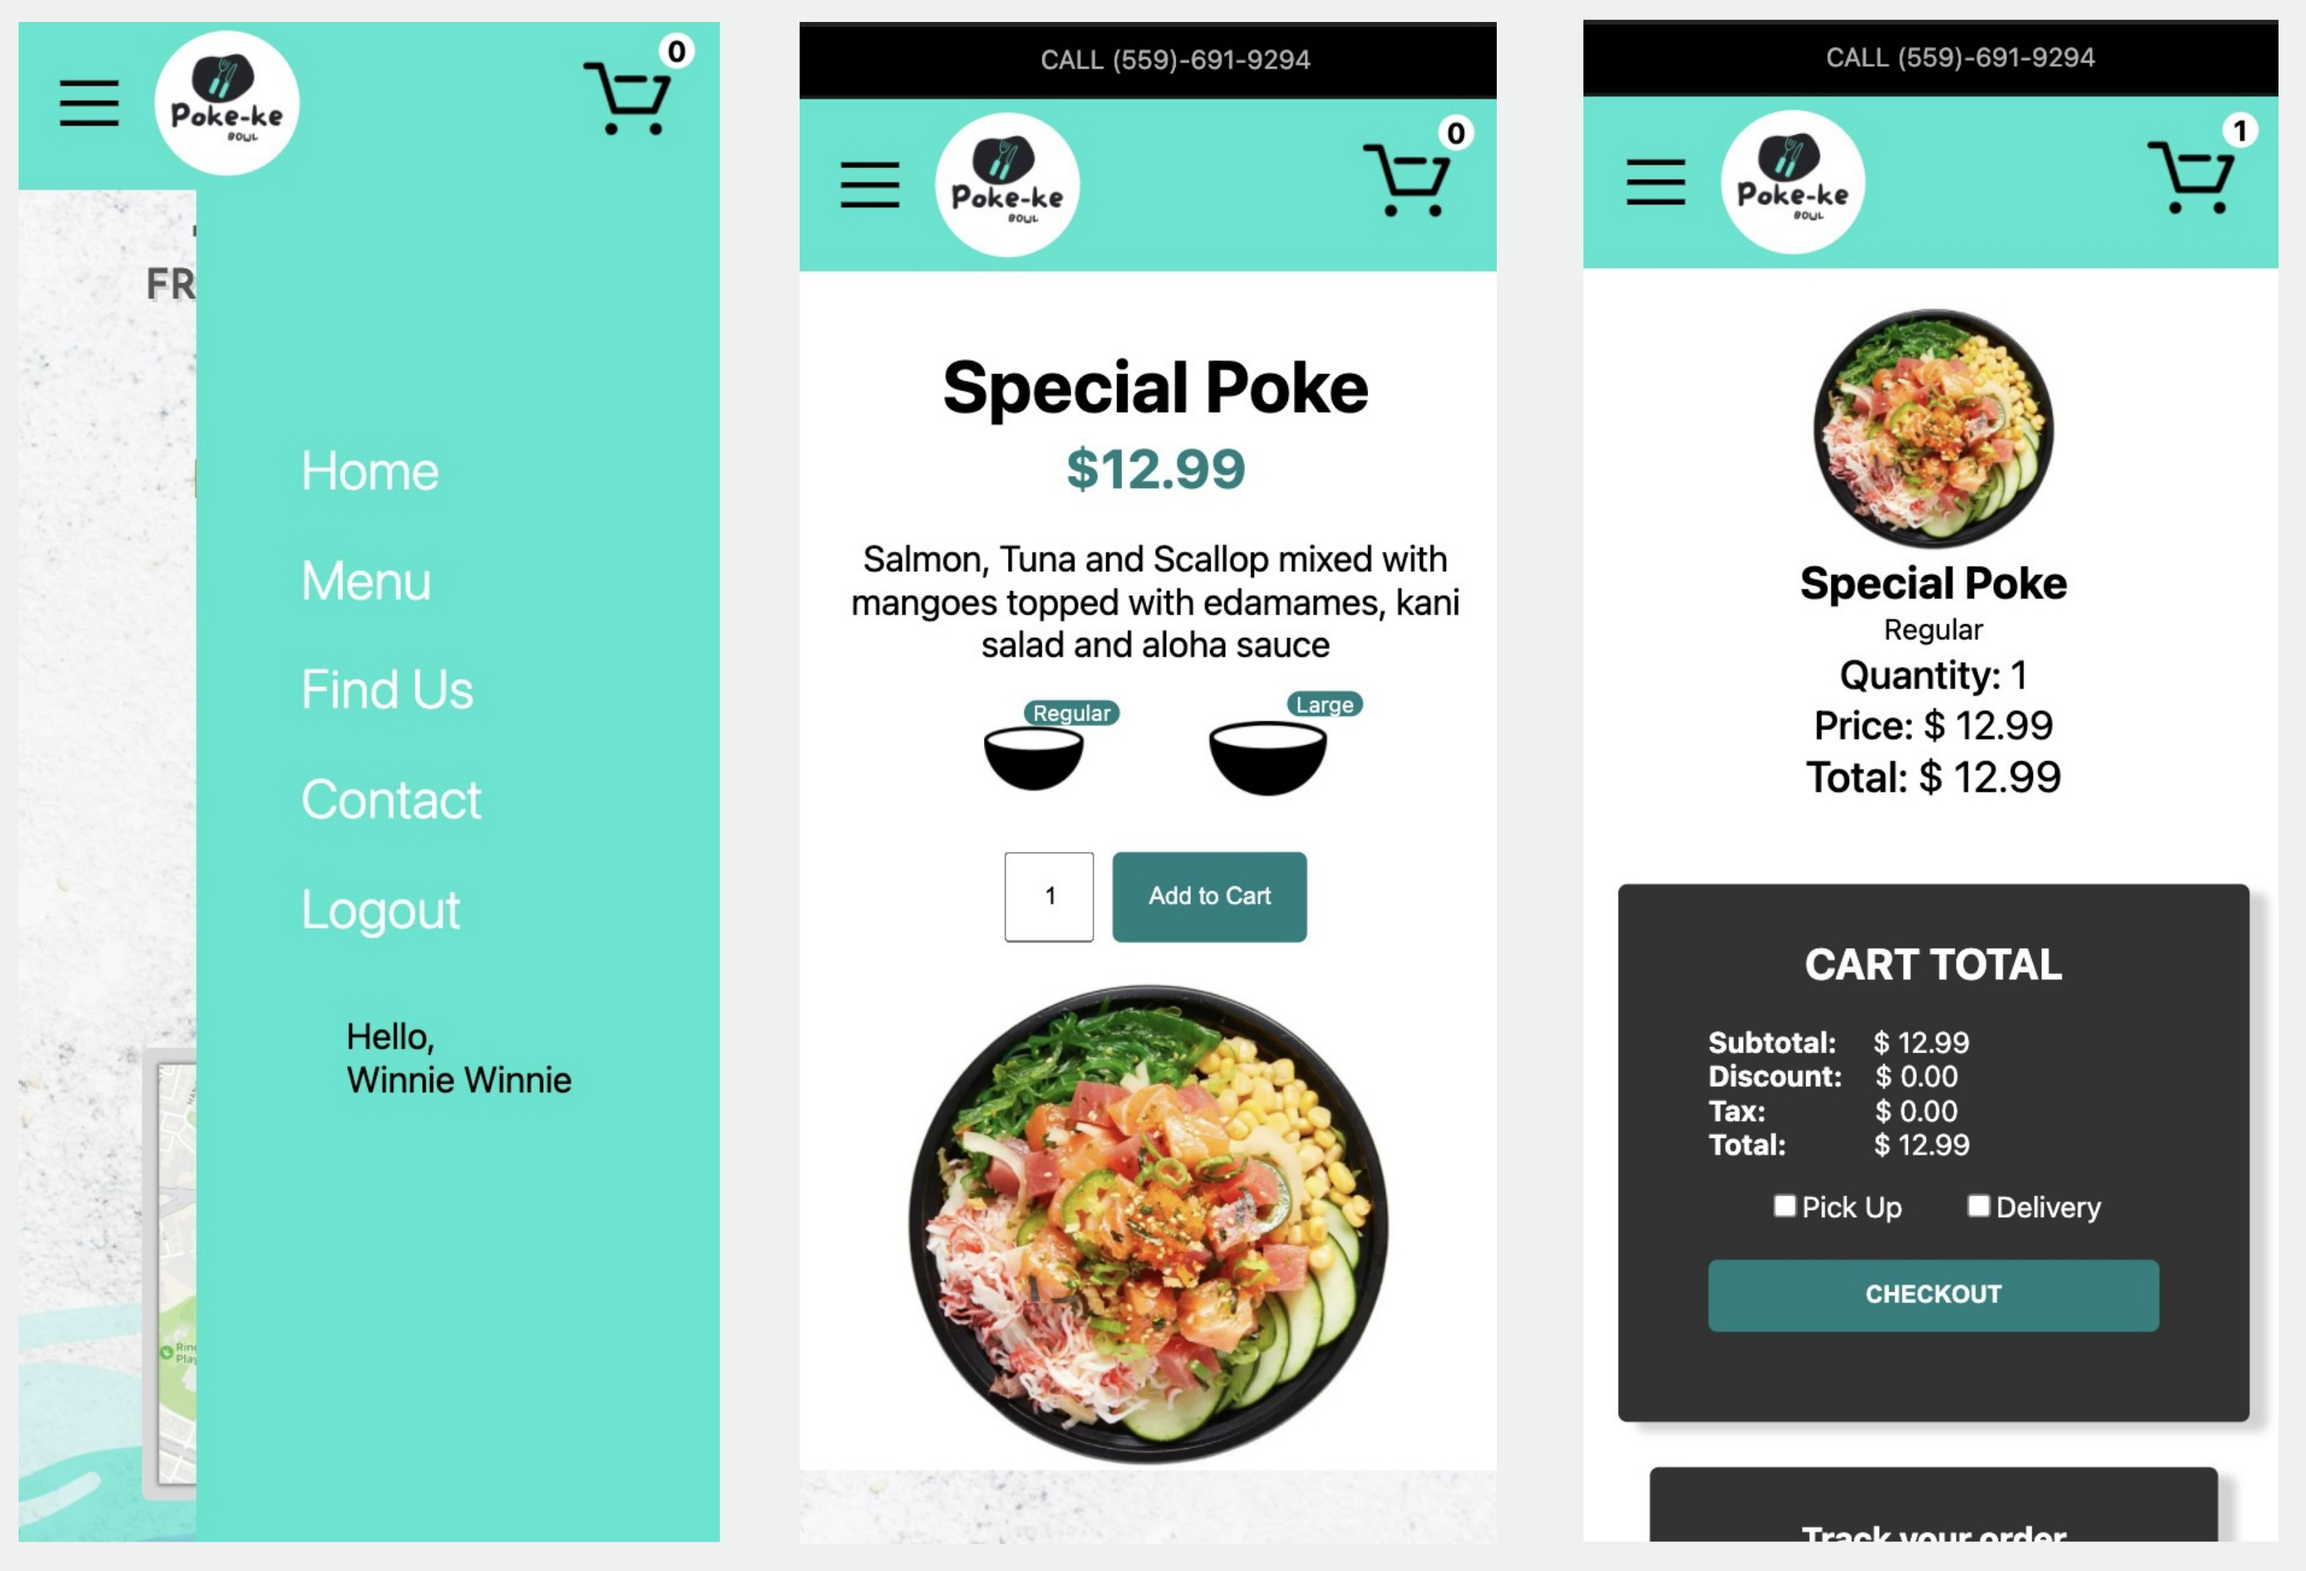
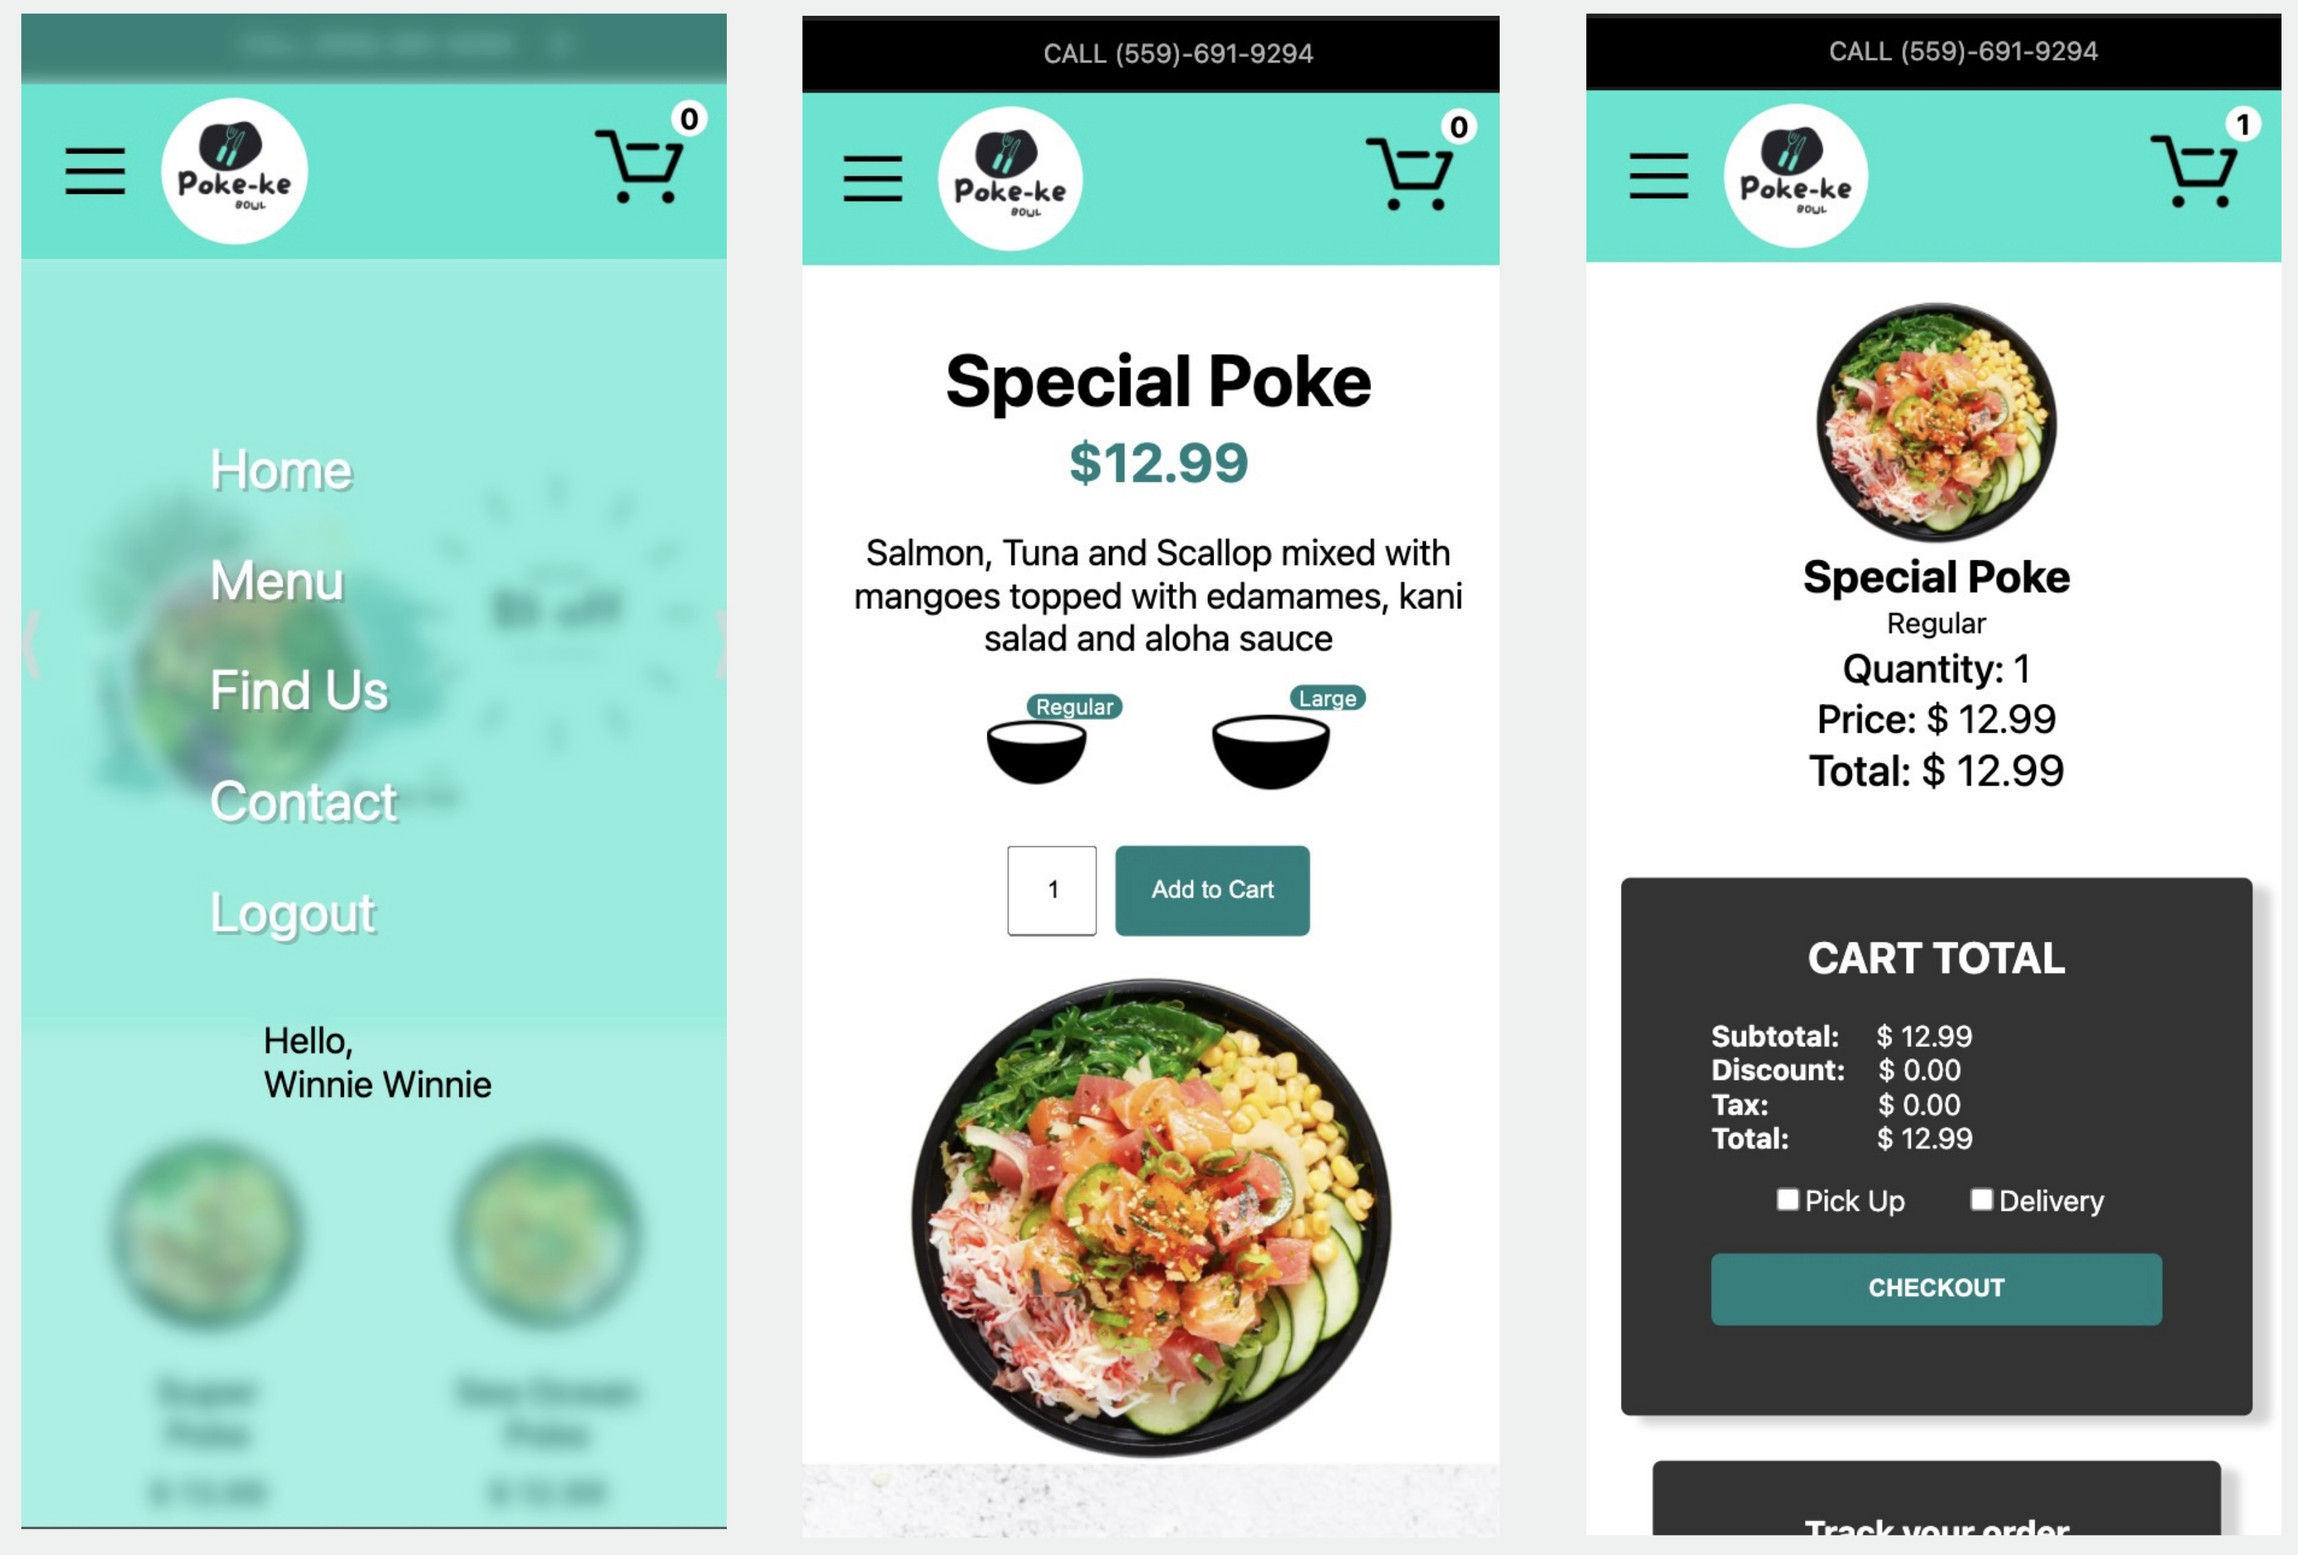
update sidebar menu

diff --git a/component/SideBar.js b/component/SideBar.js
@@ -16,25 +16,25 @@ const SideBar = ({sideOpen, setSideOpen}) => {
         <div className={`${styles.menu} ${styles.active}`}>
              <ul className={styles.list}>
           <Link href='/' passHref >
-          <li className={styles.listItem}>Home</li>
+          <li className={styles.listItem} onClick={()=>setSideOpen(!sideOpen)}>Home</li>
           </Link>
           <Link href='/#menu' passHref>
-          <li className={styles.listItem}>Menu</li>
+          <li className={styles.listItem} onClick={()=>setSideOpen(!sideOpen)}>Menu</li>
           </Link>
           {/* <li className={styles.listItem}>Pick Poke</li> */}
           <Link href='#contact' passHref>
-          <li className={styles.listItem}>Find Us</li>
+          <li className={styles.listItem} onClick={()=>setSideOpen(!sideOpen)}>Find Us</li>
           </Link>
           <Link href='#contact' passHref>
-          <li className={styles.listItem}>Contact</li>
+          <li className={styles.listItem} onClick={()=>setSideOpen(!sideOpen)}>Contact</li>
           </Link>
           { !user ?
             <Link href='/api/auth/login' passHref>
-            <li className={styles.listItem}>Login</li>
+            <li className={styles.listItem} onClick={()=>setSideOpen(!sideOpen)}>Login</li>
             </Link> 
             :
             <Link href='/api/auth/logout' passHref >
-            <li className={styles.listItem}>Logout</li>
+            <li className={styles.listItem} onClick={()=>setSideOpen(!sideOpen)}>Logout</li>
             </Link>
           }      
             </ul>
@@ -43,7 +43,7 @@ const SideBar = ({sideOpen, setSideOpen}) => {
           { (user && admin) && 
             <ul  className={styles.login}>
               <li className={styles.username}>Hello,</li>
-              <li className={styles.username}>Admin {user.name}</li> 
+              <li className={styles.username} onClick={()=>setSideOpen(!sideOpen)}>Admin {user.name}</li> 
             </ul>  
           }
            </div>
@@ -53,7 +53,7 @@ const SideBar = ({sideOpen, setSideOpen}) => {
           { (user && !admin) &&
             <ul  className={styles.login}>
                 <li className={styles.username}>Hello,</li>
-                <li className={styles.username}>{user.name}</li>
+                <li className={styles.username} onClick={()=>setSideOpen(!sideOpen)}>{user.name}</li>
             </ul> 
           }
            </div>

diff --git a/styles/SideBar.module.css b/styles/SideBar.module.css
@@ -51,7 +51,7 @@
 @media screen and (max-width:820px) {
     .menu {
         width: 100%;
-        background-color: #1be6cf70;
+        background-color: #1be6cf90;
         backdrop-filter: blur(5px);
     }
 

diff --git a/README.md b/README.md
@@ -16,7 +16,7 @@ Poke-ke Bowl is a web restaurant with capabilities of checkout and delivery opti
 * Create login account or using social media login and authentication through Auth0.
 * Using MongoDB to store database.
 
-* Stat with the Home page. From this page we offer a slider that provides the promotions of the restaurant and the list of Poke menu.
+* Start with the Home page. From this page there is a slider that provides promotions of the restaurant and list of Poke menu.
 
 ![home](public/img/me1.png)
 
@@ -32,13 +32,13 @@ Poke-ke Bowl is a web restaurant with capabilities of checkout and delivery opti
 
 ![pay](public/img/me5.jpeg)
 
-* After checkout user will be direct to an order page. From this page user can track the status of their order. The tracker order id is also available in cart checkout page.
+* After checkout user will be direct to an order page. From this page user are able to track the status of their order. The order id tracker is also available in cart checkout page.
 
 ![order](public/img/me6.jpeg)
 
 ![order](public/img/me7.jpeg)
 
-* User can create their account to view their order history by sign up from Auth0 login page, or social media account in this case using Google and Facebook.
+* User can create their account to view their order's history by sign up with Auth0 login page or login with social media account in this case using Google and Facebook.
 
 ![login](public/img/me8.jpeg)
 
